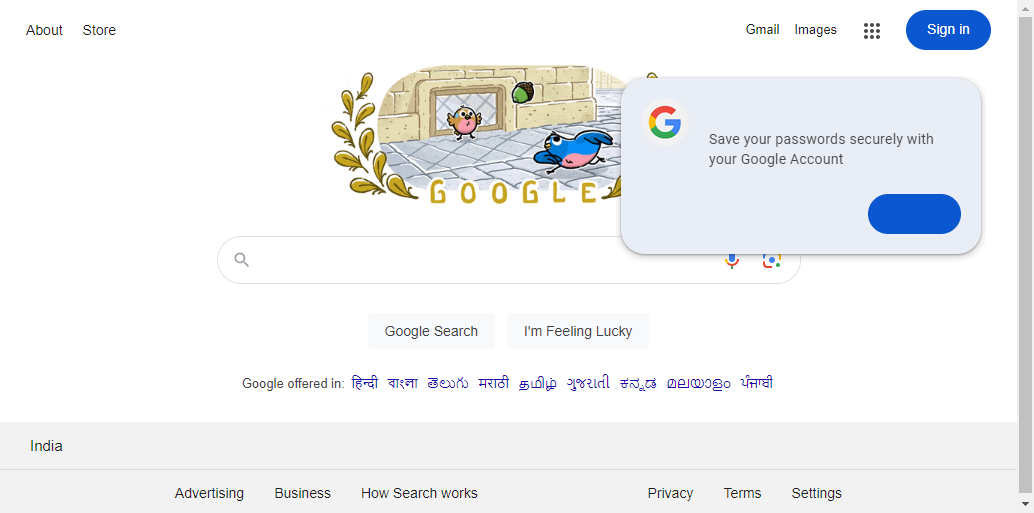
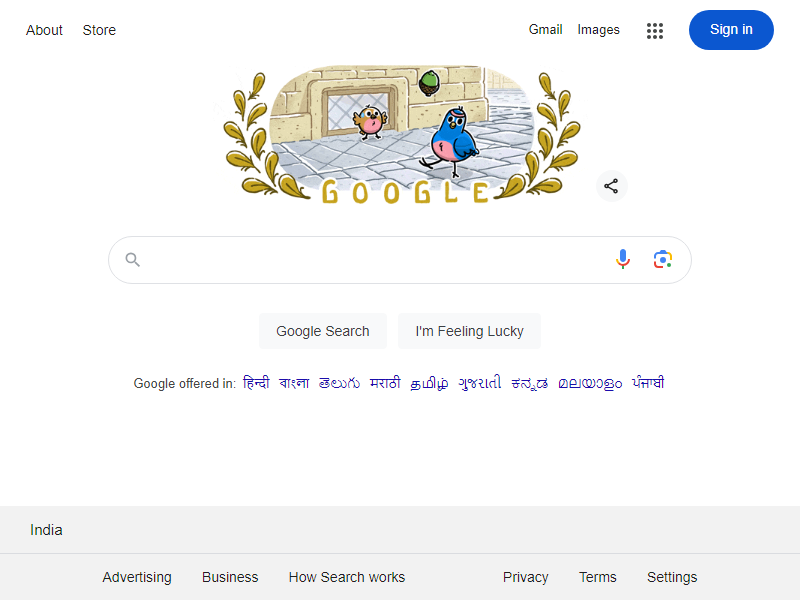
headless

diff --git a/jenkin1/src/main/java/jenkin/App.java b/jenkin1/src/main/java/jenkin/App.java
@@ -7,7 +7,7 @@ import org.openqa.selenium.OutputType;
 import org.openqa.selenium.TakesScreenshot;
 import org.openqa.selenium.WebDriver;
 import org.openqa.selenium.chrome.ChromeDriver;
-import org.testng.annotations.Test;
+import org.openqa.selenium.chrome.ChromeOptions;
 
 /**
  * Hello world!
@@ -32,7 +32,10 @@ public class App
        // Webdriver driver = new Chromedriver();
         
         
-        WebDriver driver = new ChromeDriver();
+        WebDriver driver ;
+        ChromeOptions options=new ChromeOptions();
+        options.addArguments("headless");
+        driver=new ChromeDriver(options);
 
         driver.get("https://www.google.com/"); 
         
